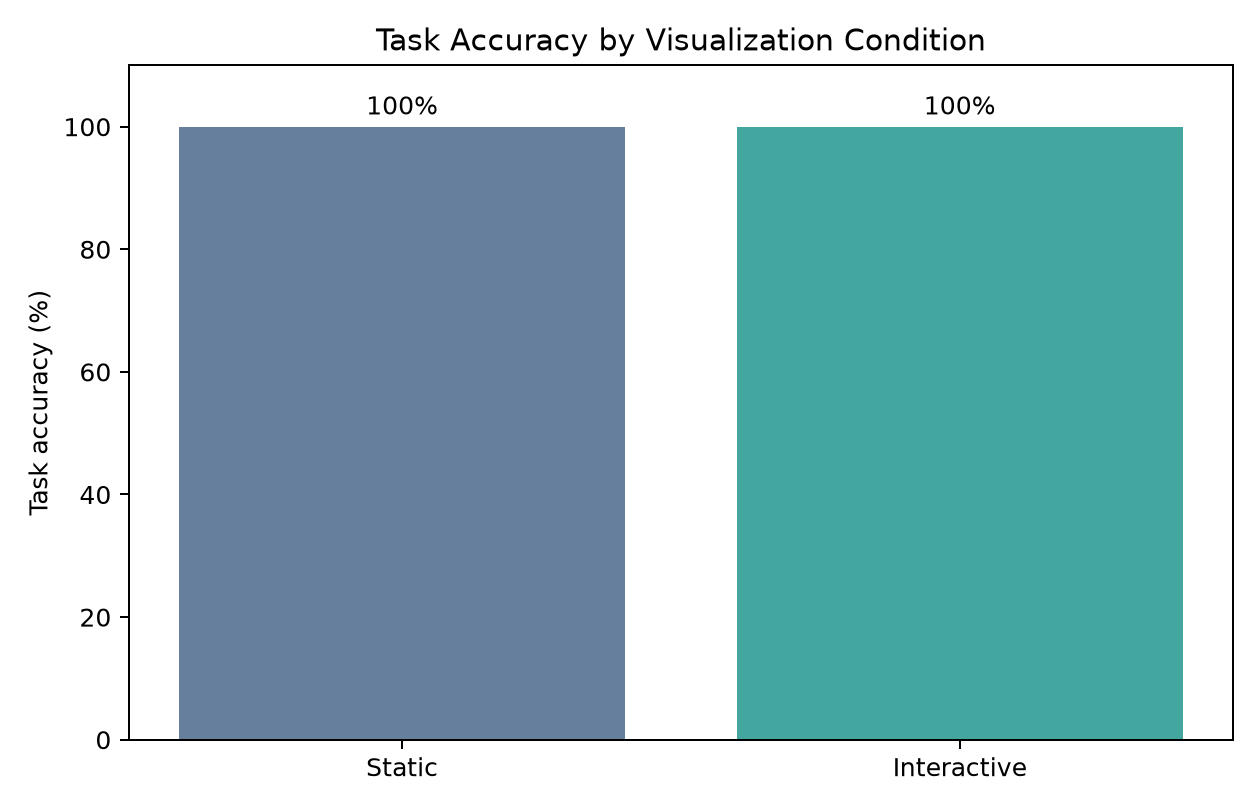
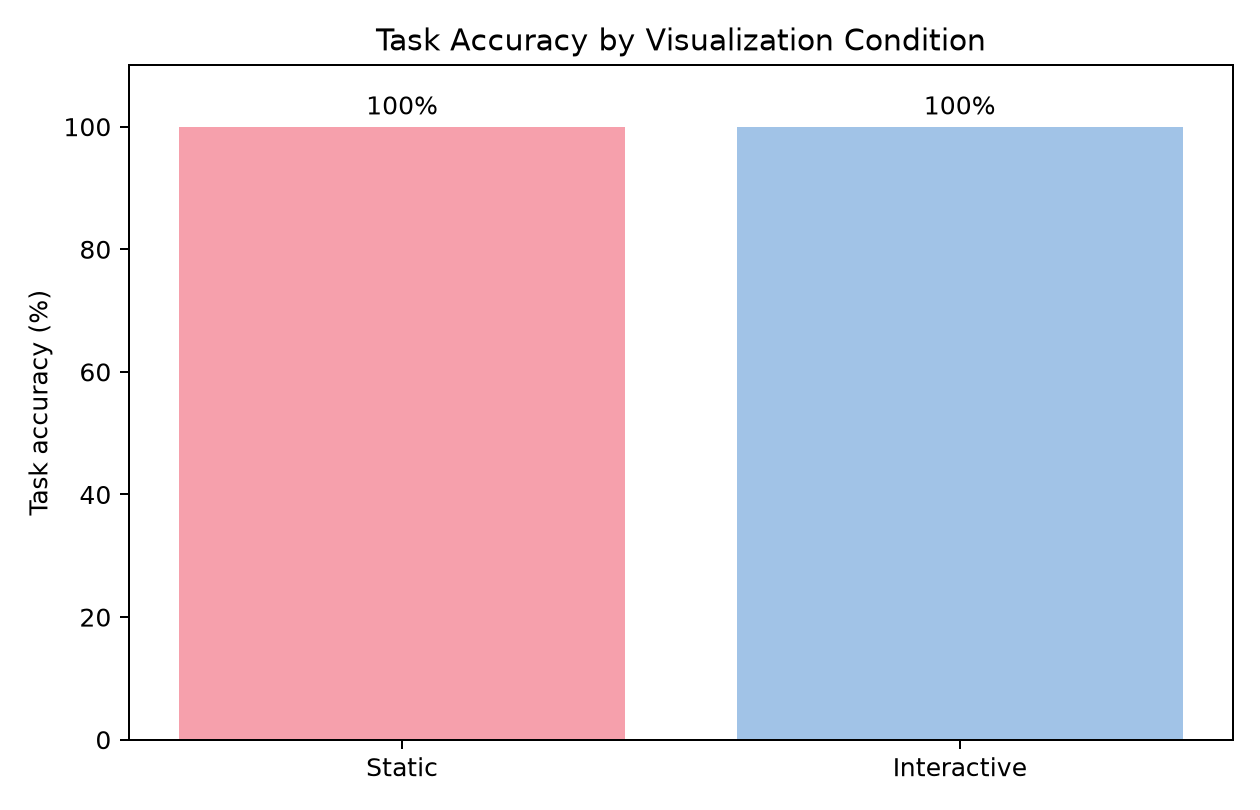
Update Assignment 3 charts with Blushwave colors

diff --git a/assignment3/analysis/analyze_results.py b/assignment3/analysis/analyze_results.py
@@ -109,7 +109,7 @@ else:
     values = [summarize(groups[c])["mean"] for c in conditions]
 
     fig, ax = plt.subplots(figsize=(7, 4.5))
-    bars = ax.bar(conditions, values, color=["#667f9c", "#43a7a0"])
+    bars = ax.bar(conditions, values, color=["#F6A0AC", "#A1C3E7"])
     ax.set_ylabel("Mean completion time (seconds)")
     ax.set_title("Average Task Completion Time")
     ax.set_ylim(0, max(values) * 1.25)
@@ -130,8 +130,8 @@ else:
     width = 0.35
 
     for offset, condition, color in [
-        (-width / 2, "Static", "#667f9c"),
-        (width / 2, "Interactive", "#43a7a0"),
+        (-width / 2, "Static", "#F6A0AC"),
+        (width / 2, "Interactive", "#A1C3E7"),
     ]:
         values = [
             summarize(groups[(condition, task)])["mean"]
@@ -170,7 +170,7 @@ if "plt" in globals():
     bars = ax.bar(
         conditions,
         accuracies,
-        color=["#667f9c", "#43a7a0"]
+        color=["#F6A0AC", "#A1C3E7"]
     )
 
     ax.set_ylim(0, 110)
